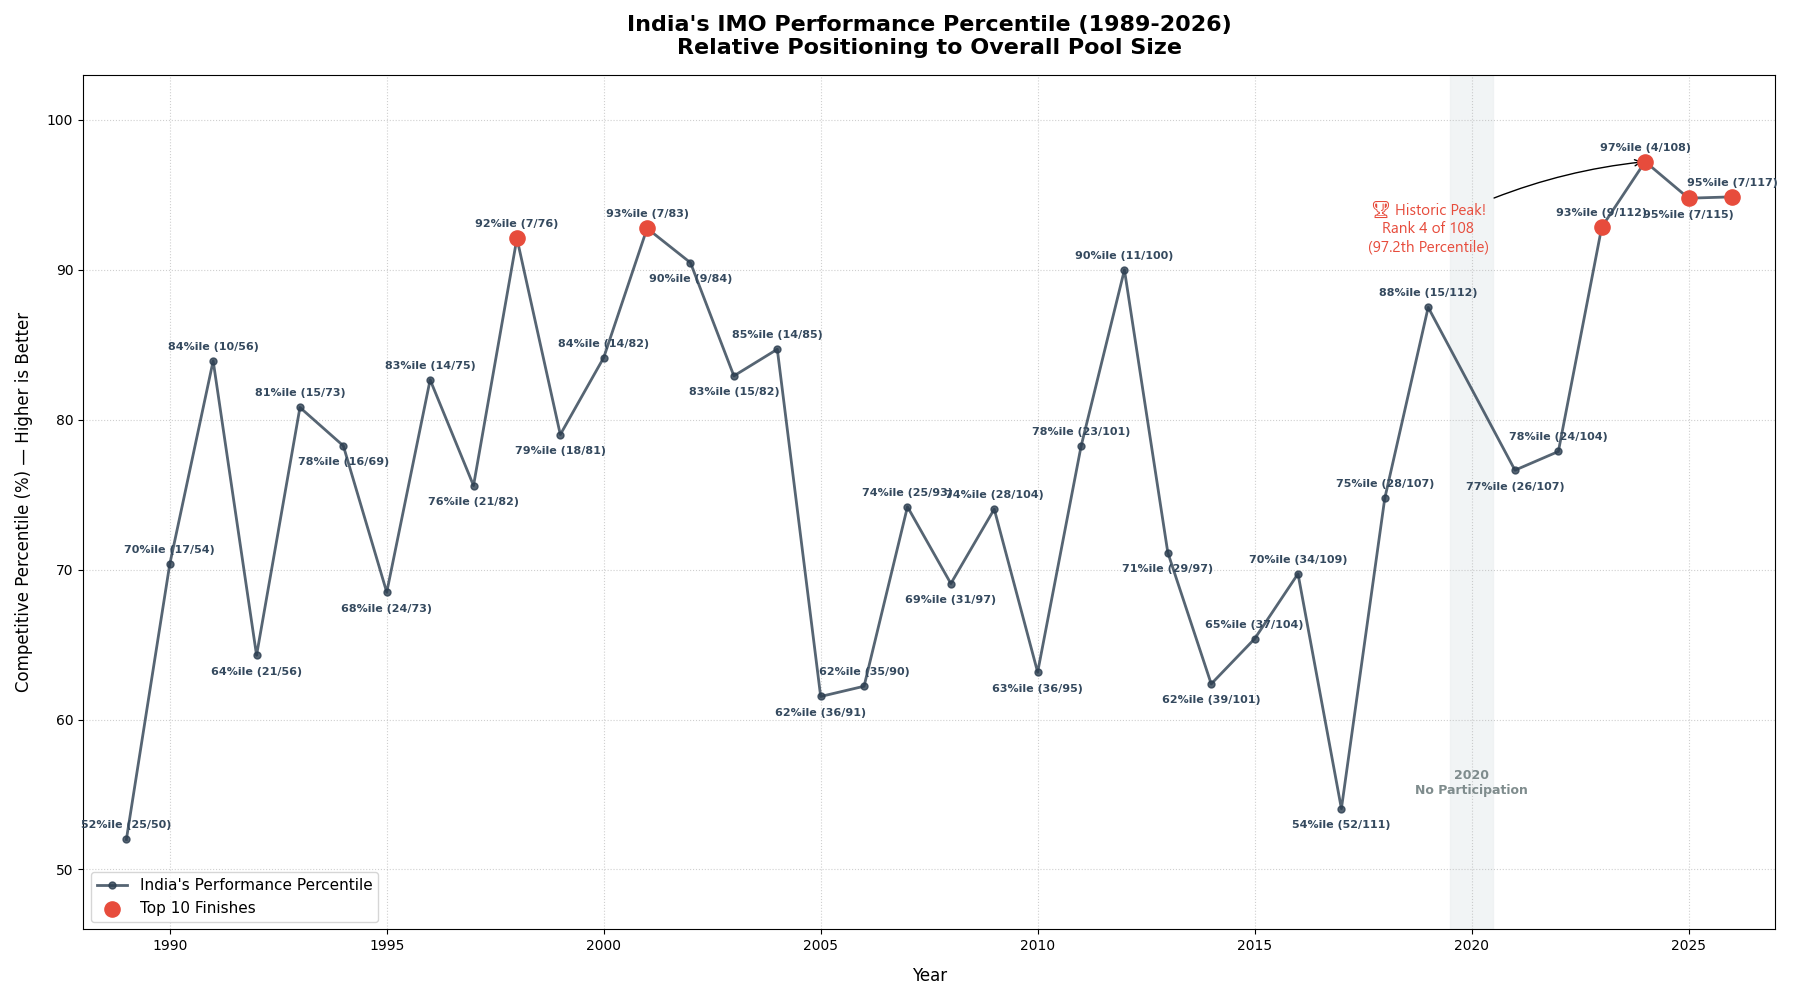
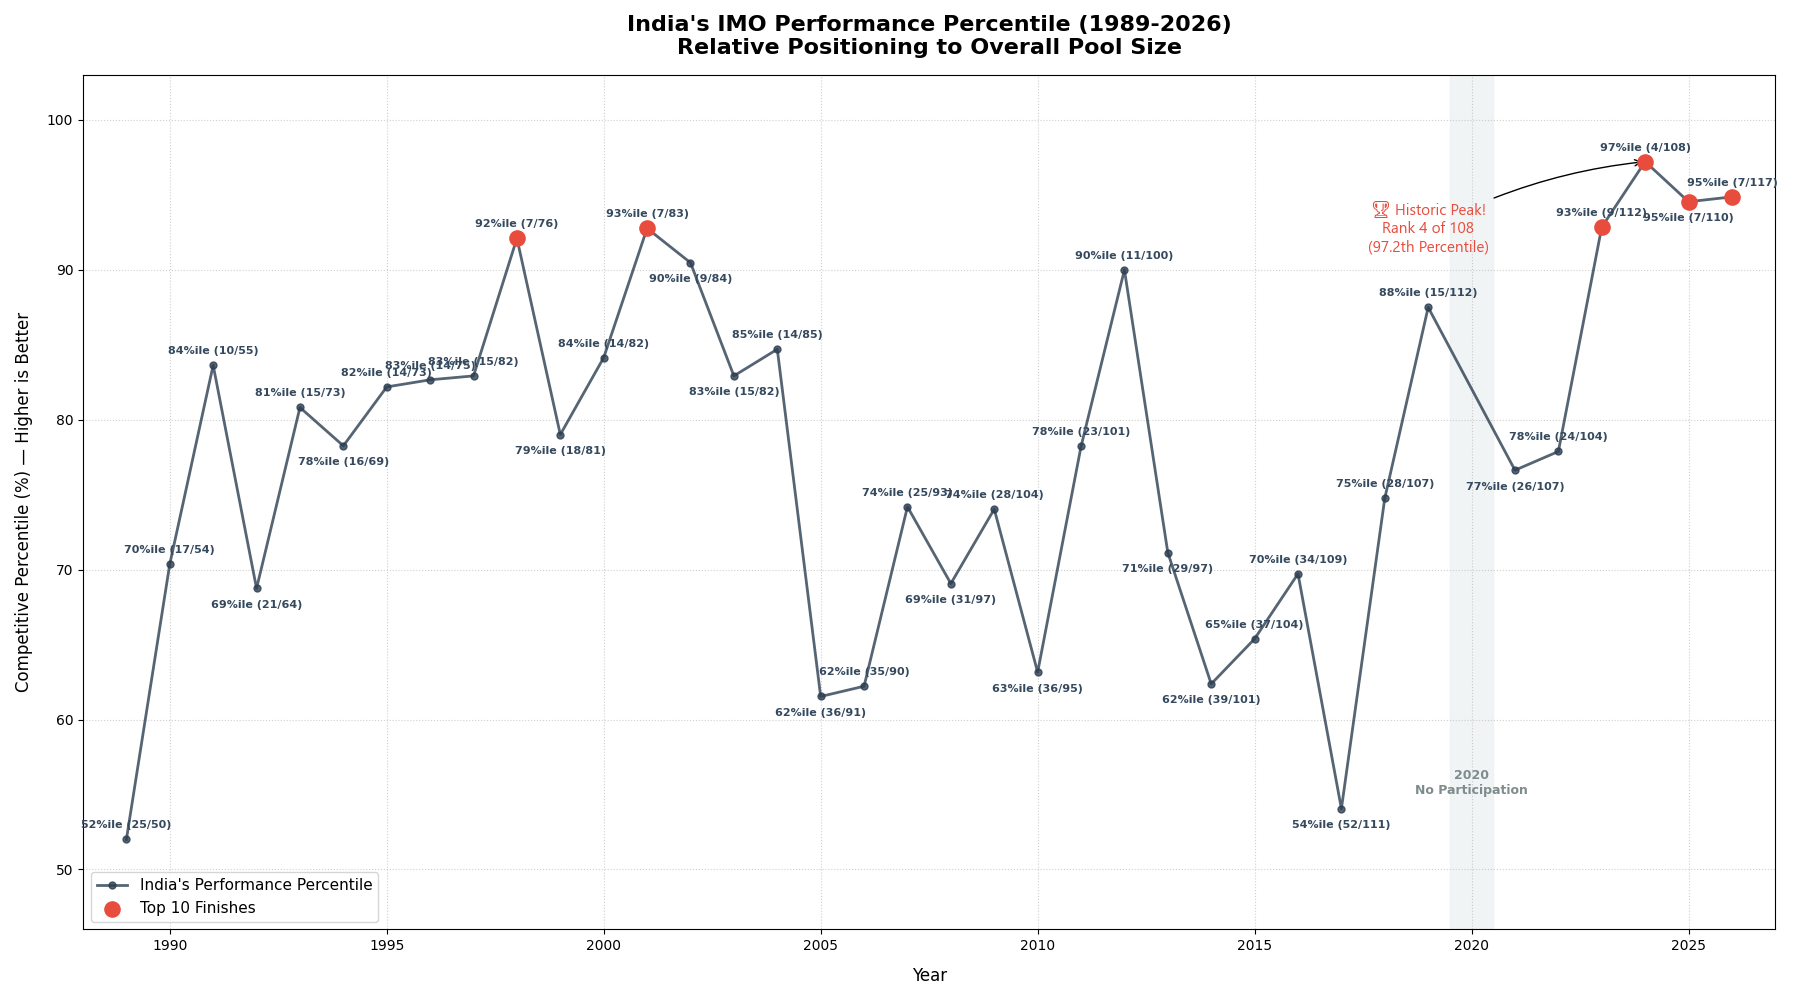
imo_dat_fix

diff --git a/india_imo_percentile.py b/india_imo_percentile.py
@@ -7,13 +7,13 @@ import pandas as pd
 imo_data = [
     (1989, 25, 50),
     (1990, 17, 54),
-    (1991, 10, 56),
-    (1992, 21, 56),
+    (1991, 10, 55),
+    (1992, 21, 64),
     (1993, 15, 73),
     (1994, 16, 69),
-    (1995, 24, 73),
+    (1995, 14, 73),
     (1996, 14, 75),
-    (1997, 21, 82),
+    (1997, 15, 82),
     (1998, 7, 76),
     (1999, 18, 81),
     (2000, 14, 82),
@@ -40,7 +40,7 @@ imo_data = [
     (2022, 24, 104),
     (2023, 9, 112),
     (2024, 4, 108),
-    (2025, 7, 115),
+    (2025, 7, 110),
     (2026, 7, 117),
 ]
 
@@ -150,3 +150,4 @@ plt.text(
 
 plt.tight_layout()
 plt.savefig("assets/india_imo_percentile.png")
+plt.show()

diff --git a/india_ioi_percentile.py b/india_ioi_percentile.py
@@ -139,3 +139,4 @@ plt.legend(loc="lower left", fontsize=11)
 
 plt.tight_layout()
 plt.savefig("assets/india_ioi_percentile.png")
+plt.show()

diff --git a/india_icho_percentile.py b/india_icho_percentile.py
@@ -139,3 +139,4 @@ plt.text(
 
 plt.tight_layout()
 plt.savefig("assets/india_icho_percentile.png")
+plt.show()

diff --git a/india_ioaa_percentile.py b/india_ioaa_percentile.py
@@ -149,3 +149,4 @@ plt.text(
 
 plt.tight_layout()
 plt.savefig("assets/india_ioaa_percentile.png")
+plt.show()

diff --git a/india_ipho_percentile.py b/india_ipho_percentile.py
@@ -159,3 +159,4 @@ plt.text(
 
 plt.tight_layout()
 plt.savefig("assets/india_ipho_percentile.png")
+plt.show()

diff --git a/india_ibo_percentile.py b/india_ibo_percentile.py
@@ -139,3 +139,4 @@ plt.text(
 
 plt.tight_layout()
 plt.savefig("assets/india_ibo_percentile.png")
+plt.show()
